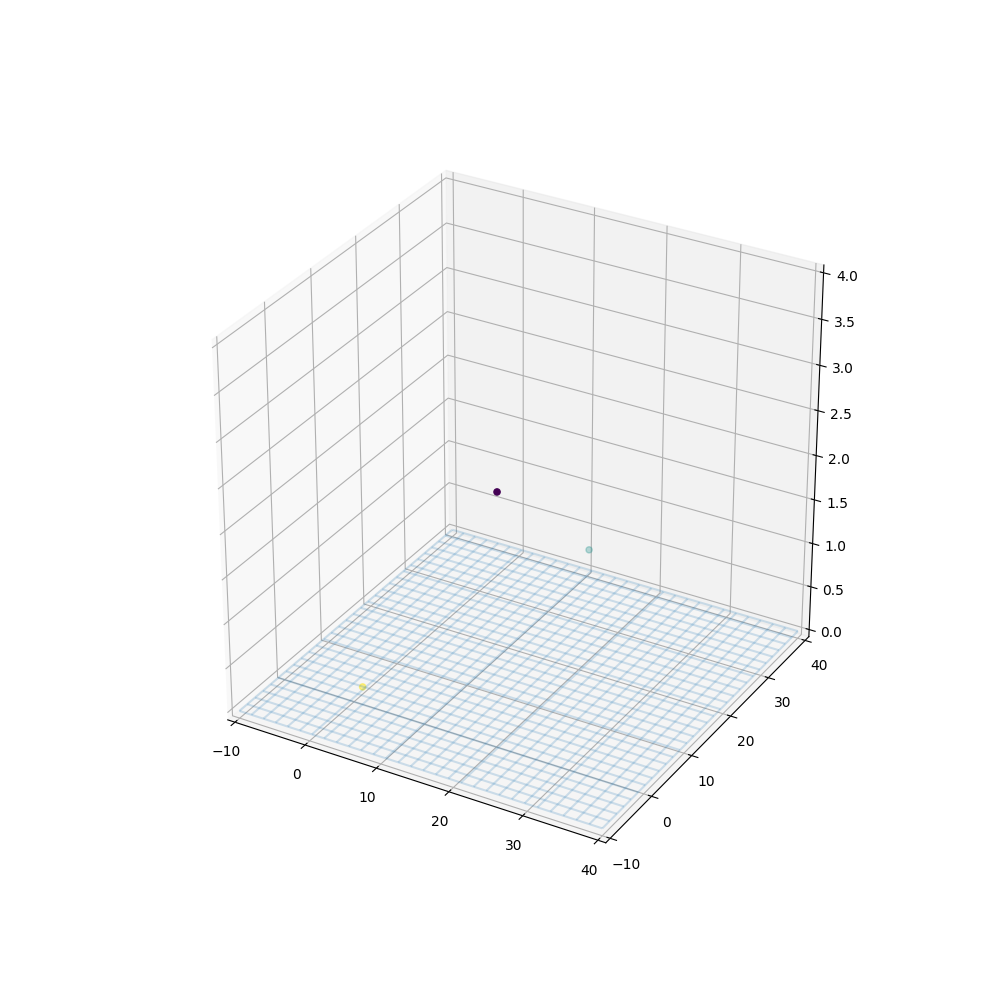
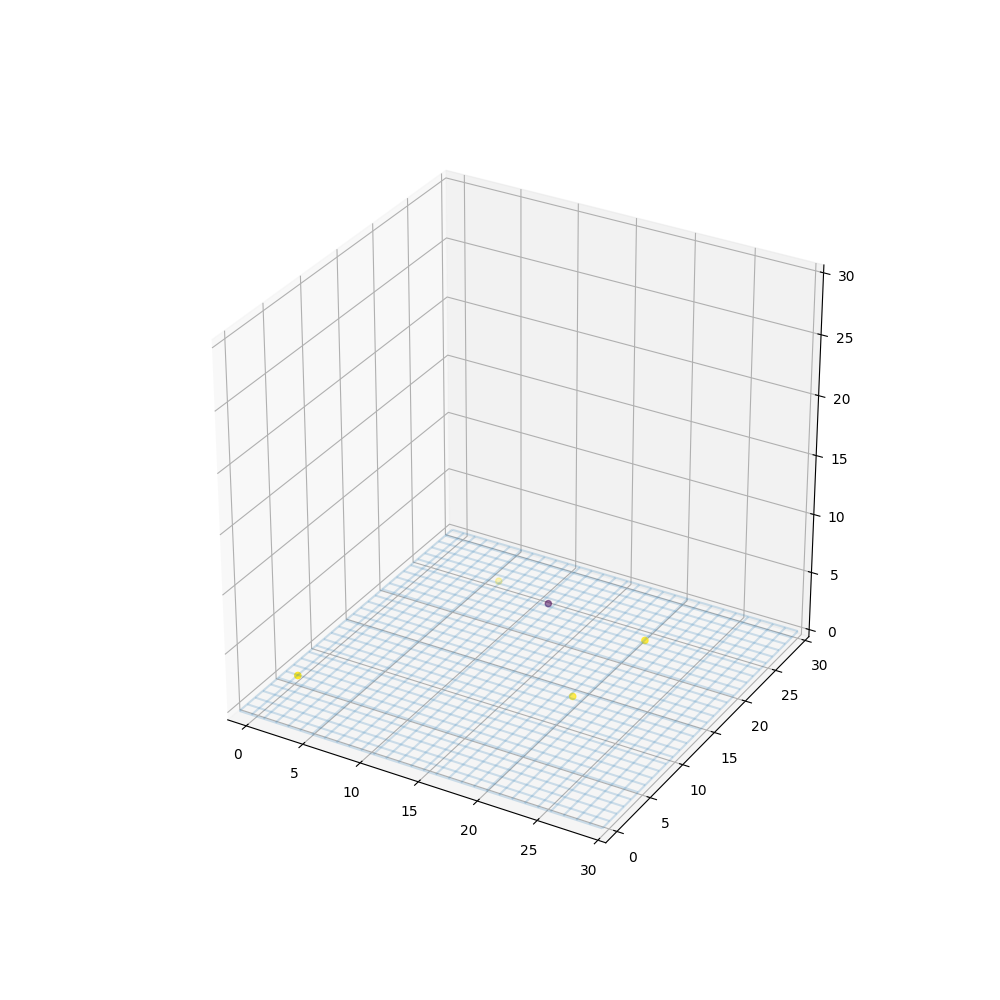
for ty

diff --git a/kobayashi/ships/base_ship.py b/kobayashi/ships/base_ship.py
@@ -13,13 +13,14 @@ class Ship(metaclass=abc.ABCMeta):
         self.speed = speed
         self.crew = {}
         self.hp = hp
+        self.destroyed = False
 
     def __int__(self):
         return self.team
 
     def remove(self, arena):
-        arena.arena[self.coords] = None
-        arena.ships.remove(self)
+        arena[self.coords] = None
+        self.destroyed = True
 
     def threat_level(self, ship):
         if ship.team == self.team:
@@ -29,7 +30,7 @@ class Ship(metaclass=abc.ABCMeta):
     def attack(self, arena):
         close_ships, num_within_range = self.list_close_ships(arena)
         if num_within_range == 0:
-            raise NoTargetsAvailable()
+            raise NoTargetsAvailable
         for s, d, w, inrange, threat in close_ships:
             if inrange and s.team != self.team:
                 s.hp -= w.wdamage
@@ -49,26 +50,26 @@ class Ship(metaclass=abc.ABCMeta):
             if distance(self.coords, new_loc) > self.speed:
                 raise NotEnoughSpeed(f'{distance(self.coords, new_loc)} > {self.speed}')
             else:
-                arena.arena[self.coords] = None
+                arena[self.coords] = None
                 self.coords = new_loc
-                arena.arena[self.coords] = self
+                arena[self.coords] = self
         # Otherwise use AI
         else:
-            arena.arena[self.coords] = None
+            arena[self.coords] = None
             if self.AI_level == 0:
-                self.coords = self.random_jitter(arena.arena.shape)
-            arena.arena[self.coords] = self
+                self.coords = self.random_jitter()
+            arena[self.coords] = self
 
-    def random_jitter(self, shape):
-        return tuple(min(max(_ + random.randint(-1, 1), 0), shape[i] - 1)
-                            for i, _ in enumerate(self.coords))
+    def random_jitter(self):
+        return tuple(_ + random.randint(-1, 1)
+                     for i, _ in enumerate(self.coords))
 
     def list_close_ships(self, arena):
         """
         Returns a list of all ships sorted by threat level descending that are within range
         """
         ships = []
-        for ship in arena.ships:
+        for coord, ship in arena.arena.items():
             d = distance(self.coords, ship.coords)
             for w in self.weapons:
                 ships.append((ship, d, w, d < w.wrange, self.threat_level(ship)))
@@ -87,9 +88,8 @@ class Ship(metaclass=abc.ABCMeta):
             else:
                 raise FullCrewException(f'Capacity is at {self.capacity}.')
 
-    @abc.abstractmethod
     def register_weapon(self, weapon):
-        pass
+        self.weapons.append(weapon)
 
     @abc.abstractproperty
     def capacity(self):

diff --git a/kobayashi/arena.py b/kobayashi/arena.py
@@ -7,17 +7,22 @@ from mpl_toolkits.mplot3d import Axes3D
 
 
 class Arena(object):
-    def __init__(self, m, n, layers=3):
-        self.m = m
-        self.n = n
-        self.layers = layers
+    def __init__(self):
         self.arena = {}
-        self.arena = np.empty((m, n, layers), dtype=object)
-        self.ships = []
         self.framenum = 0
+        self.ships = []
 
     def __str__(self):
         return str(self.arena)
+
+    def __getitem__(self, item):
+        return self.arena[item]
+
+    def __setitem__(self, key, value):
+        if value is None:
+            self.arena.pop(key)
+        else:
+            self.arena[key] = value
 
     def register_ship(self, coords, shipinstance):
         shipinstance.coords = coords
@@ -26,20 +31,26 @@ class Arena(object):
 
     def tick(self):
         self.framenum += 1
-        for s in self.ships:
-            s.tick(self)
+        for ship in self.ships:
+            if ship.destroyed is False:
+                ship.tick(self)
 
     def show(self):
         fig = plt.figure(figsize=(10, 10))
         ax = fig.add_subplot(111, projection='3d')
-        X, Y = np.meshgrid(np.linspace(-10, self.m + 10, 30), np.linspace(-10, self.n + 10, 30))
+        X, Y = np.meshgrid(np.linspace(-1, 30, 30), np.linspace(-1, 30, 30))
         ax.plot_wireframe(X, Y, 0, alpha=0.2)
-        xs, ys, zs = np.nonzero(self.arena)
-        colors = [self.arena[x, y, z].team for x, y, z in zip(xs, ys, zs)]
-        ax.scatter(*np.nonzero(self.arena), c=colors)
 
-        ax.set_xlim(-10, self.m + 10)
-        ax.set_ylim(-10, self.n + 10)
-        ax.set_zlim(0, self.layers + 1)
+        points = []
+        colors = []
+        for ship in self.ships:
+            if not ship.destroyed:
+                points.append(ship.coords)
+                colors.append(ship.team)
+        ax.scatter(*np.array(points).T, c=colors)
 
-        # plt.savefig(f'./img/arena{self.framenum}.png')
+        ax.set_xlim(-1, 30)
+        ax.set_ylim(-1, 30)
+        ax.set_zlim(0, 30)
+
+        plt.savefig(f'./img/arena{self.framenum}.png')

diff --git a/run_sim.py b/run_sim.py
@@ -6,7 +6,7 @@ import kobayashi as kob
 
 
 def main():
-    arena = kob.arena.Arena(30, 30, layers=3)
+    arena = kob.arena.Arena()
     arena.register_ship((0, 2, 1), kob.generate_ship(kob.Fighter))
     arena.register_ship((10, 20, 2), kob.generate_ship(kob.Fighter))
     arena.register_ship((13, 21, 2), kob.generate_ship(kob.Fighter))
@@ -16,7 +16,7 @@ def main():
 
     for _ in range(20):
         arena.tick()
-        arena.show()
+        # arena.show()
 
 
 

diff --git a/kobayashi/generate.py b/kobayashi/generate.py
@@ -27,4 +27,4 @@ def generate_crew(count):
 def generate_pilot():
     attributes = [dice(4, 6, droplowcount=1) for _ in range(6)]
     level = random.randint(1, 5)
-    return Pilot(level, attributes)
+    return Pilot('expert', level, attributes)

diff --git a/kobayashi/ships/fighter.py b/kobayashi/ships/fighter.py
@@ -2,9 +2,6 @@ from .base_ship import Ship
 
 
 class Fighter(Ship):
-    def register_weapon(self, weapon):
-        self.weapons.append(weapon)
-
     @property
     def capacity(self):
         return 2

diff --git a/kobayashi/util.py b/kobayashi/util.py
@@ -15,6 +15,11 @@ def dice(numdice, dicesides, droplowcount=0):
     return sum(rolls)
 
 
+def parameterize_towards_point(coords):
+    pass
+
+
+
 # Exceptions
 
 class FullCrewException(Exception): pass
